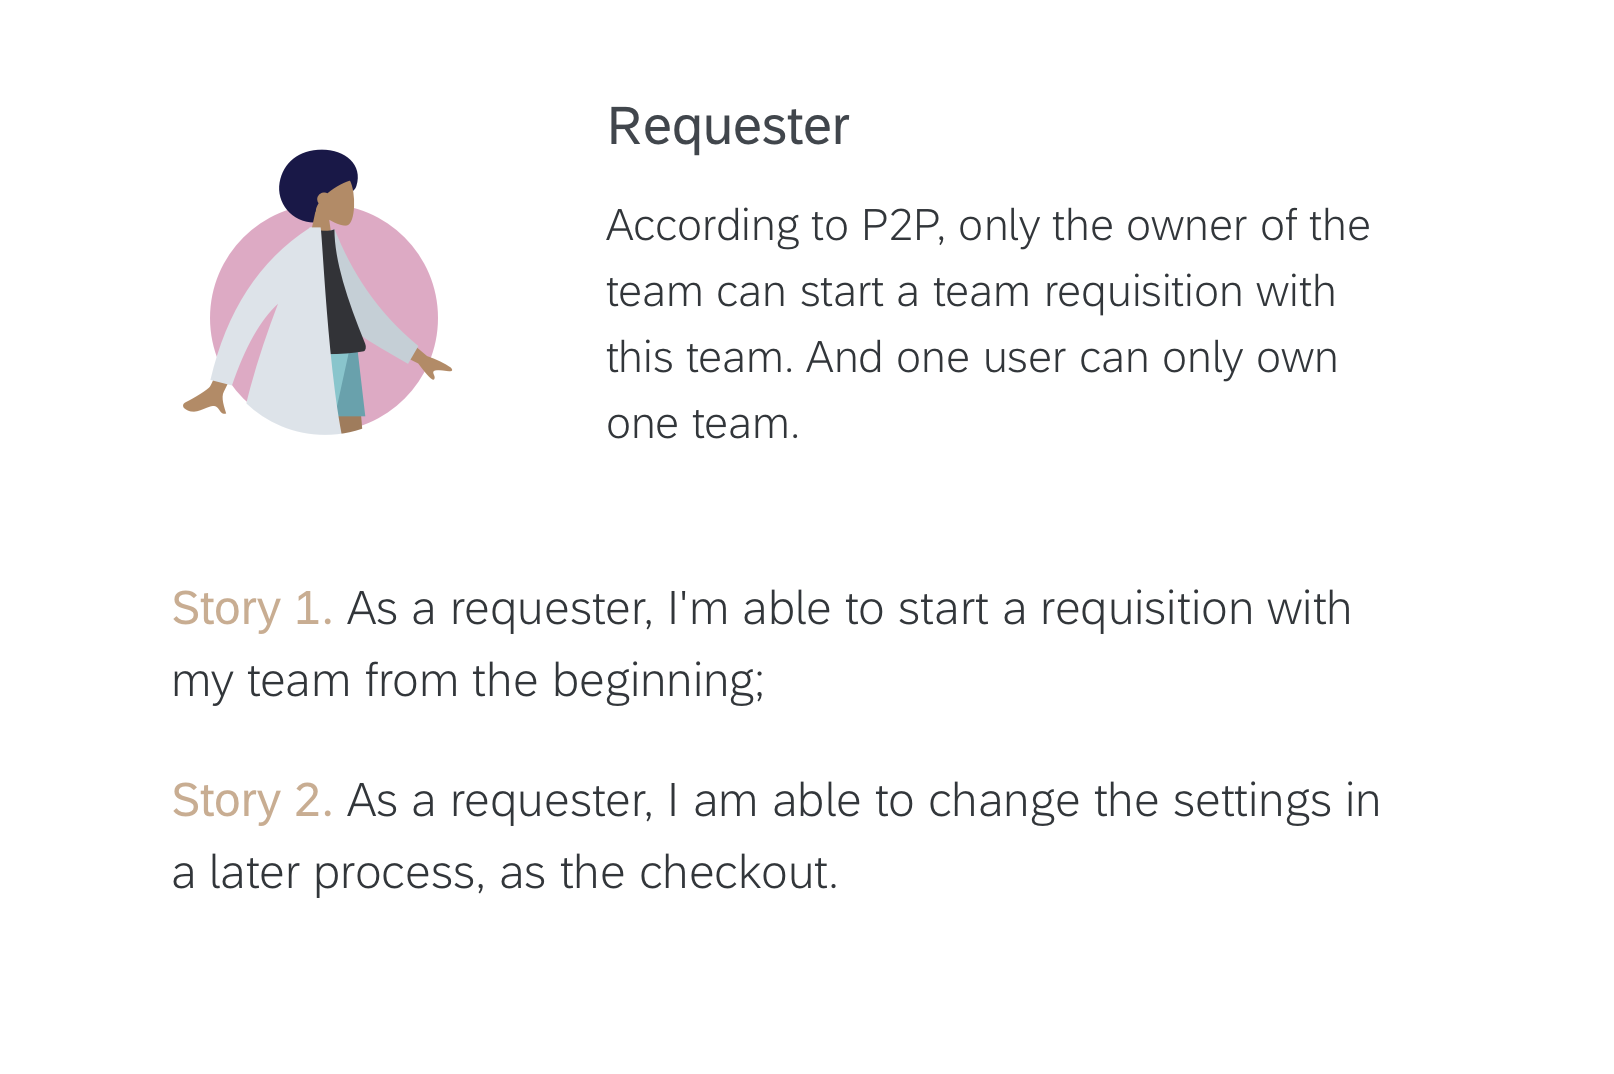
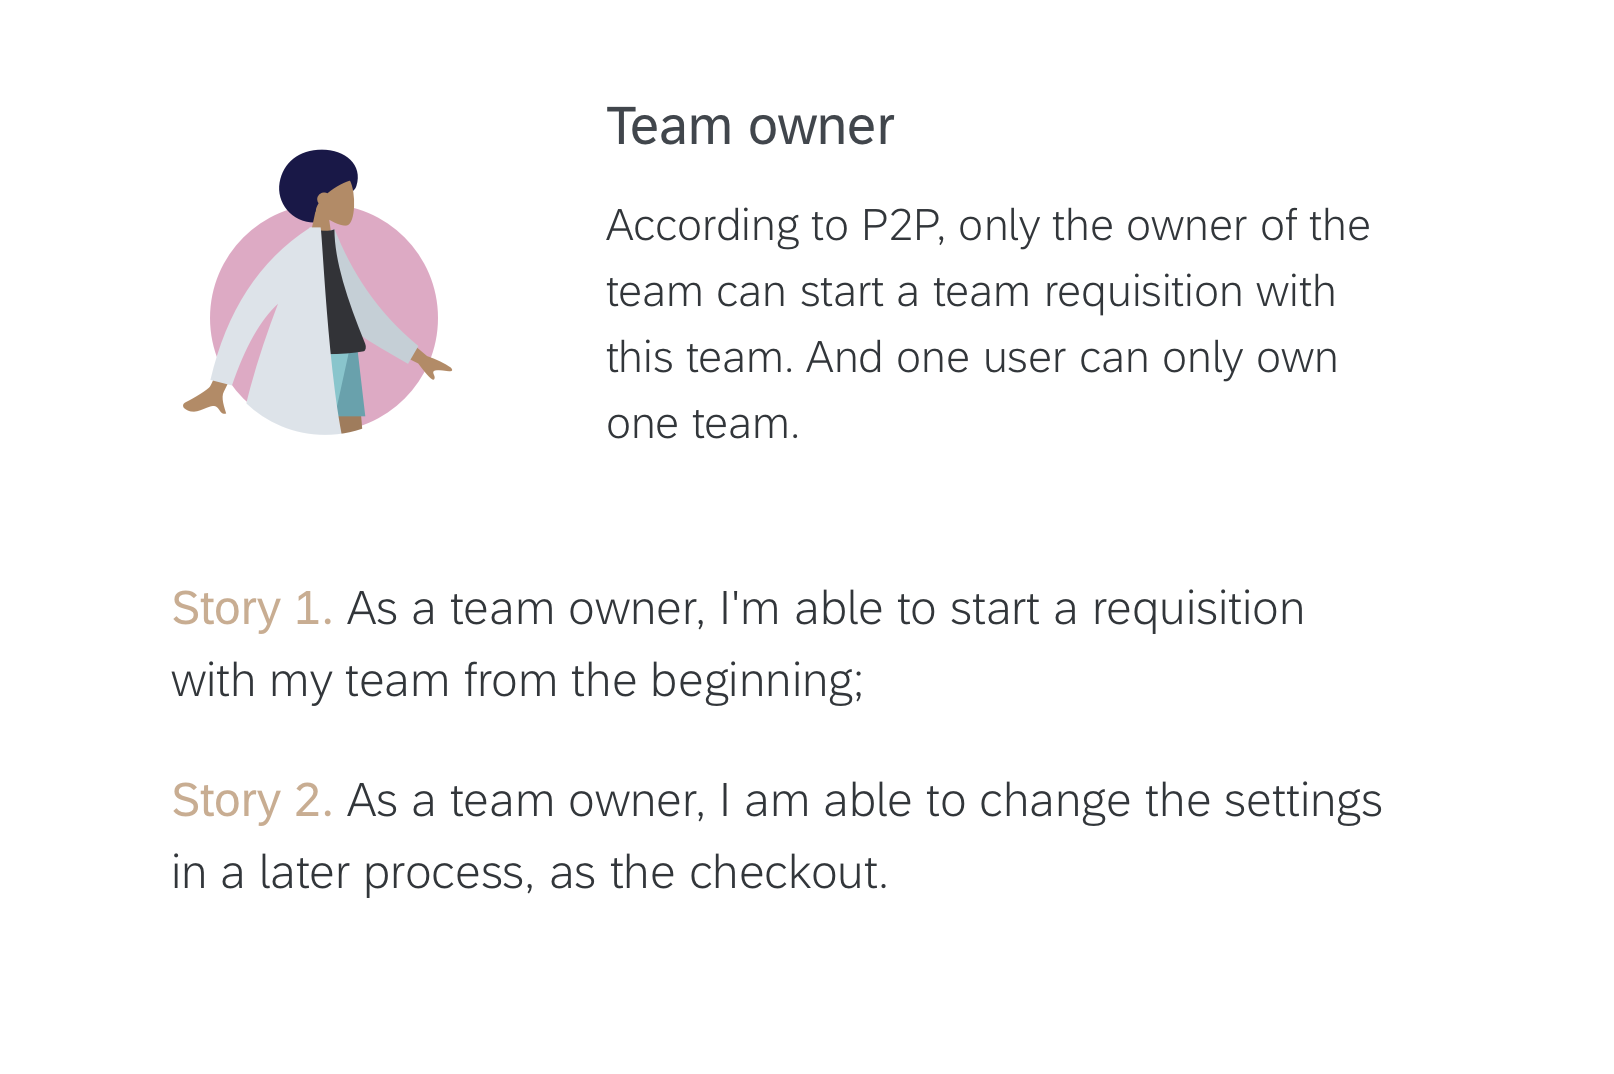
User stories & initial design

diff --git a/teambuying.html b/teambuying.html
@@ -449,12 +449,13 @@
 					<p class="description pb-3">
 						We broke the feature into phases. In phase 1, we only need to include team buying and receiving stories. For team management, users will have to go to P2P. And in P2P, users can only own one team but can be teammates of multiple teams. However, they can only start a requisition with the team they own.
 					</p>
+
 					<div class="row col-md-12" style="padding: 0; padding-top: 2rem; color:#555555;" >
 						<div class="col-md-6 text-center" style="padding: 0; margin-right: 0;">
 							<div class="col-md-12 text-center image-wrapper"><img src="img/teambuying/requester.png" alt="#" class="img-responsive img-centered" /></div>
 						</div>
 						<div class="col-md-6 text-center" style="padding: 0; margin-right: 0;">
-							<div class="col-md-12 text-center image-wrapper"><img src="img/teambuying/team members.png" alt="#" class="img-responsive img-centered" /></div>
+							<div class="col-md-12 text-center image-wrapper"><img src="img/teambuying/team member.png" alt="#" class="img-responsive img-centered" /></div>
 						</div>
 					</div>
 					
@@ -485,44 +486,29 @@
 					
 					<h3>Design</h3>
 					<p class="description pb-3">
-						There are four types of users: admin, team owner, contributor, and viewer.  There is an admin page in GB, and that would be where admins create and manage teams. They will not participate in the requisitioning process.
+						In a GB requisition flow, there are 5 main stages: 
+						<br><b class="bolder">1. shop -> 2. checkout -> 3. send for approval -> 4. approved -> 5. receive</b>
 					</p>
-				
+					<p class="description pb-3">
+						In this section, you can see the critical screens of requester flow and team members' flow. On the left side is the highlighted widgets of each step. 
+					</p>
+					<!-- <br><br> <a href="https://sapariba.invisionapp.com/share/S6XY40JD4TJ#/424032831_Homepage-Work_Order-Static" class="btn btn-default btn-primary" target="_blank">Invision Mock-ups</a> -->
+					<div class="row">
+						<div class="col-lg-12 member_desc text-center image-wrapper">
+							<img src="img/teambuying/initial design.png" alt="#" class="img-responsive img-centered"/>
+						</div>
+					</div>
+					<div class="row">
+						<div class="col-lg-12 member_desc text-center image-wrapper">
+							<img src="img/teambuying/team members.png" alt="#" class="img-responsive img-centered"/>
+						</div>
+					</div>
 
 				</div>
 			</div>
 		</div>
 
 			
-	</div>
-</section>
-
-
-<!-- Initial Design -->
-<section class="project-details-wrapper before-scope" id="description">
-	<div class="container">		
-		<div class="row">
-			<div class="col-12">
-				<div class="flex-wrap project-desc">
-					<div class="section-title title-ex1">
-						<h2 class="title-text">Initial Design</h2>
-					</div>
-					<div class="row ">
-						<div class="col-lg-12 member_desc">
-							<p class="description with-list">
-								With the high-level guide, I created logical flowcharts and started prototyping accordingly. At this stage, I work closely with PM for requirements check, design lead for critique, and devs for feasibility, visual designers for style guide alignment, and content. Based on the collected feedback, I iterated the design constantly and had group reviews monthly. The project is currently under development and is updated weekly.
-							</p>							
-							<br><br> <a href="https://sapariba.invisionapp.com/share/S6XY40JD4TJ#/424032831_Homepage-Work_Order-Static" class="btn btn-default btn-primary" target="_blank">Invision Mock-ups</a>
-						</div>
-					</div>
-					<div class="row">
-						<div class="col-lg-12 member_desc text-center image-wrapper">
-							<img src="img/skyspecs/Initial Design.png" alt="#" class="img-responsive img-centered"/>
-						</div>
-					</div>
-				</div>
-			</div>
-		</div>
 	</div>
 </section>
 
@@ -570,46 +556,21 @@
 					<div class="section-title title-ex1">
 						<h2 class="title-text">Iteration</h2>
 					</div>
+					<h3>New user stories</h3>
 					<p class="description pb-3">
-						Our project continued after the summer when the SkySpecs made a lot of changes to their existing web portal. Because the Work Order System is not a standalone website and will be integrated into their current site, we need to consider these changes and tweak our design. 
-					</p><br><br>
-		            <p><h3>Validation</h3><p>
+						We broke the feature into phases. In phase 1, we only need to include team buying and receiving stories. For team management, users will have to go to P2P. And in P2P, users can only own one team but can be teammates of multiple teams. However, they can only start a requisition with the team they own.
+					</p>
+					<div class="row">
+						<div class="col-lg-12 member_desc text-center image-wrapper">
+							<img src="img/teambuying/iterated user stories.png" alt="#" class="img-responsive img-centered"/>
+						</div>
+					</div>
+					<br><br>
+		            <h3>Validation</h3>
 					<p class="description pb-3">
 						We have worked closely with our sponsor through weekly meetings and to identify what features they need to consolidate in a work order system. We also had three design reviews to evaluate the design at each stage and iterated based on received feedback. We conducted late-stage usability testing to validate the work order system, testing the functionality, efficiency, flexibility of the work order system and made some tweaks.  
 					</p>					
-					<table class="table table-bordered table-style">
-						<thead>
-							<tr>
-								<th>#</th>
-								<th>Criteria</th>
-								<th>Features</th>
-							</tr>
-						</thead>
-						<tbody>
-							<tr>
-								<th scope="row">1</th>
-								<td>Efficiency</td>
-								<td>Turbines can be programmatically brought up, not manually anymore. The process of creating new work order has been simplified too.</td>
-							</tr>
-							<tr>
-								<th scope="row">2</th>
-								<td>Flexibility</td>
-								<td>Users not only can save and edit the work order later, but they now can fill in the turbine number for inspection without selecting the exact turbine.</td>
-							</tr>
-							<tr>
-								<th scope="row">3</th>
-								<td>Calendar</td>
-								<td>The calendar now becomes a visual view of the work order table.</td>
-							</tr>
-						</tbody>
-					</table>
-					<p class="description pb-3">
-						We previously planned to set separate accounts for different users (director, analyst, operator, and customer). As SpySpecs set up the login user account as each customer, we no longer needed to consider different user views and customer information section. And they also built the turbine section we design into their system, so we no need to worry about turbine information too.  The final narrowed-down project scope is shown below:  
-					</p>
-					<div class="col-sm-12 text-center image-wrapper">
-		                <a  href="img/skyspecs/SkySpecs WorkFlow.png" data-lightbox="example-set" data-title="SkySpecs Workflow"><img src="img/skyspecs/SkySpecs WorkFlow.png" alt="#" class="img-responsive img-centered" /></a>
-		                <br><br><p class="figures"><b>figure 4.</b> Final Project Scope</p><br><br>
-		            </div>
+					
 				</div>
 			</div>
 		</div>
